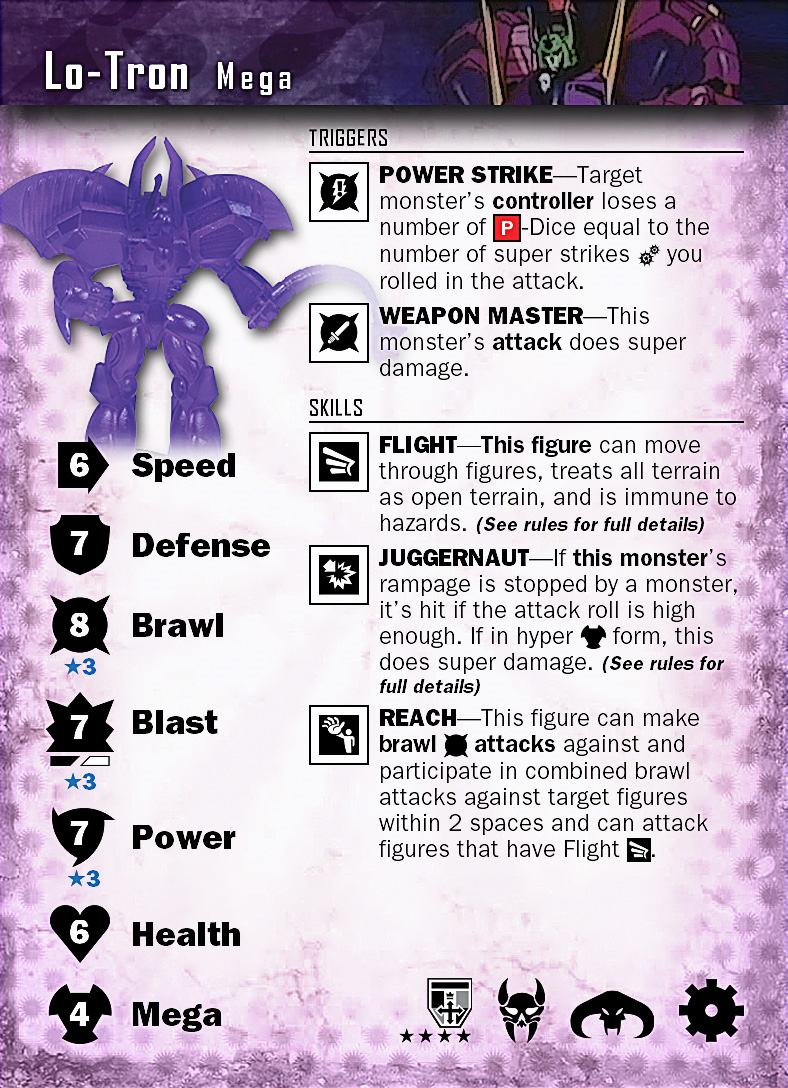
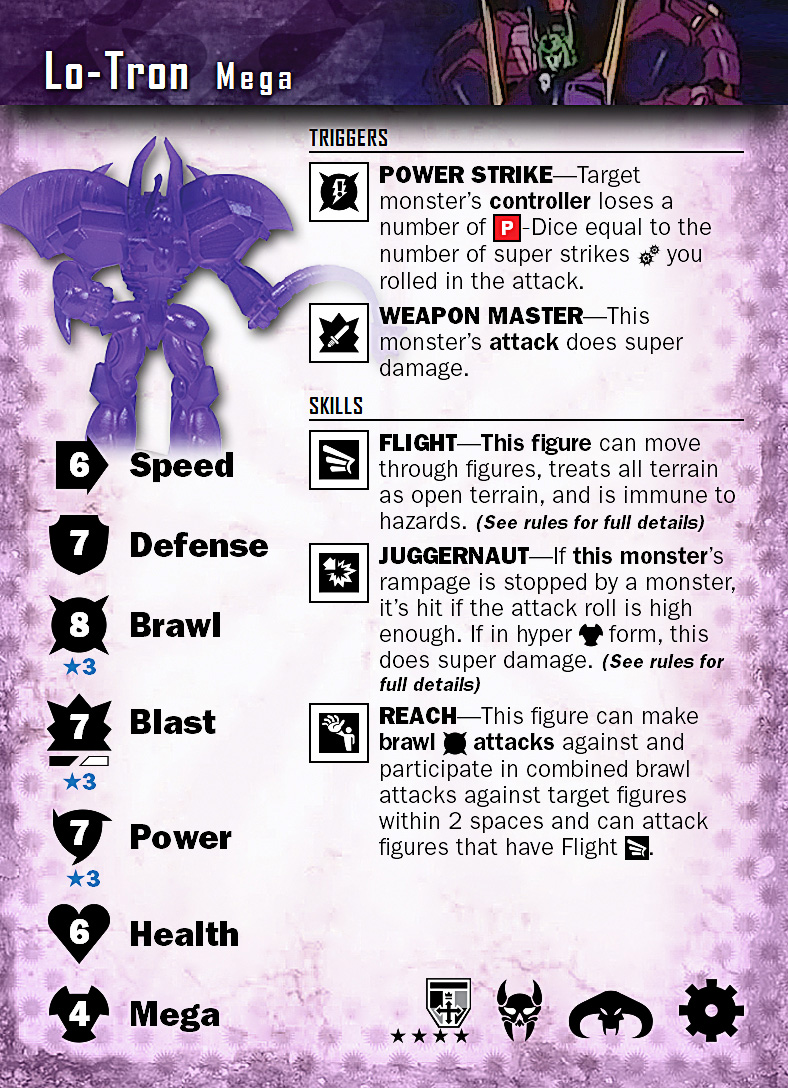
lo-tron fix

diff --git a/include/monpoc_figures.php b/include/monpoc_figures.php
@@ -4628,7 +4628,7 @@ $figures = array(
 		"hyper" => 4,
 		"abilities" => array(
 			"Power Strike" => array("trigger" => "brawl", ),
-			"Weapon Master" => array("trigger" => "brawl", ),
+			"Weapon Master" => array("trigger" => "blast", ),
 			"Juggernaut_short" => array(),
 			"Flight_short" => array(),
 			"Reach" => array(),)
